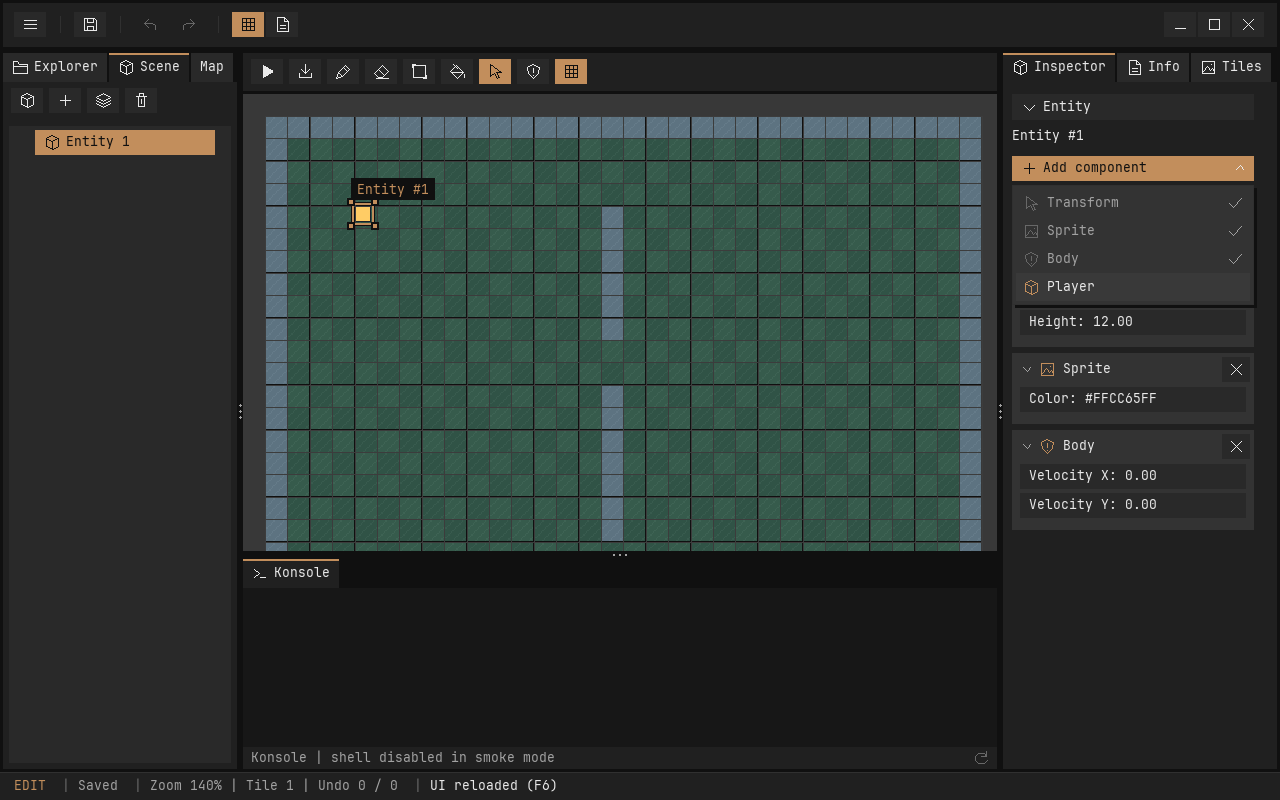
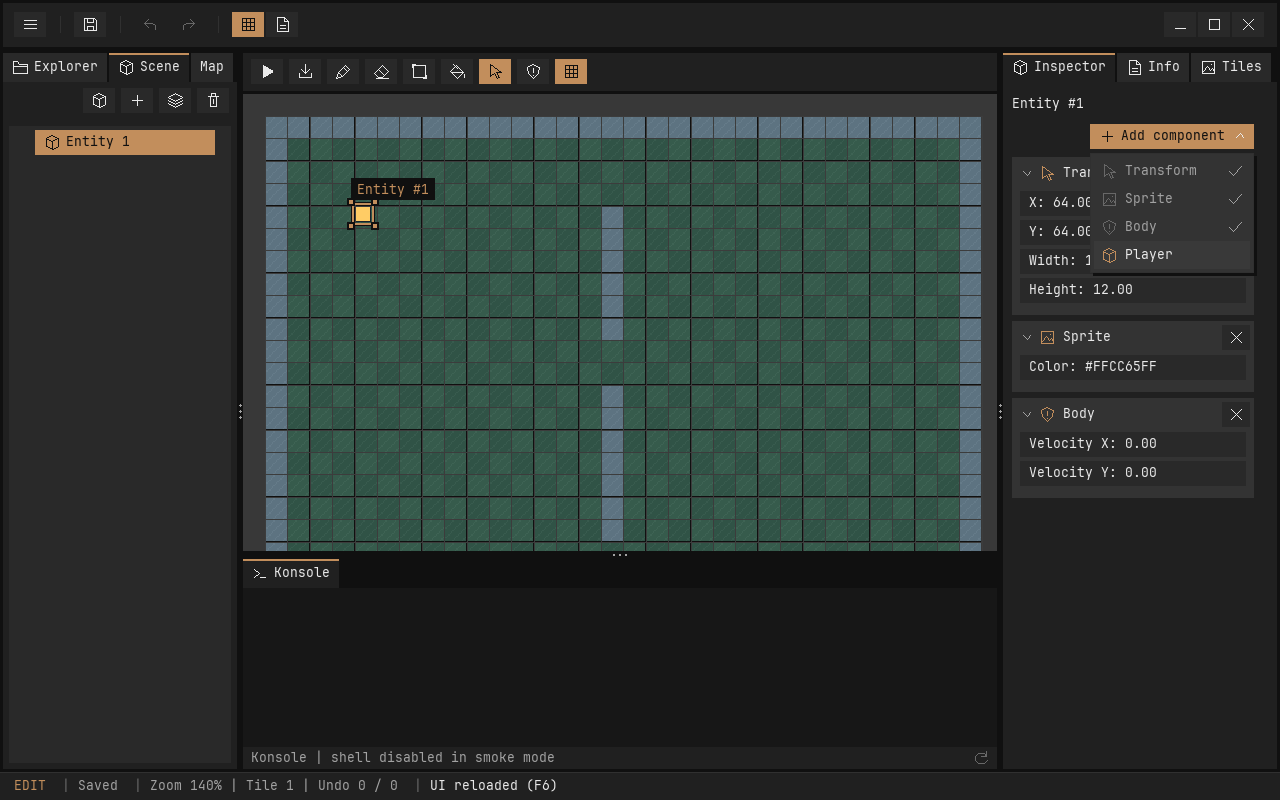
Align panel actions right and simplify entity inspector

Changed region(s): [[0.7812, 0.125, 1.0, 0.6562], [0.875, 0.625, 0.9062, 0.6562]]

diff --git a/tests/editor_smoke.c b/tests/editor_smoke.c
@@ -227,7 +227,7 @@ bool editor_verify_ui_layout(void) {
     ok = ok && !memcmp(&original, &app.map->scene, sizeof original);
     app.left_width = 240;
     app.right_width = 280;
-    app.layers_open = app.entity_open = app.palette_open = true;
+    app.layers_open = app.palette_open = true;
     app.tree_view.offset = app.inspector_view.offset = 0;
     UiTab tabs[UI_MAX_TABS];
     for (int i = 0; i < editor_view_count; i++) {
@@ -614,21 +614,22 @@ bool editor_verify_scene_graph(void) {
     editor_draw();
     bool ok = !editor_yaml_action_enabled("scene.add_child");
     float tools_y = TOP + TABS + 18.f;
-    smoke_click(PANEL_GAP + 24, tools_y);
+    float tools_x = LEFT - PANEL_GAP - 8 - (4 * 32 + 3 * 6);
+    smoke_click(tools_x + 16, tools_y);
     uint32_t root = app.selected;
     ok = ok && root != 0 && app.map->history.count == 1;
-    smoke_click(PANEL_GAP + 100, tools_y);
+    smoke_click(tools_x + 92, tools_y);
     uint32_t child = app.selected;
     PeObject *o = pe_entity_get(&app.map->scene, pe_entity_find(&app.map->scene, child));
     ok = ok && o && o->parent_id == root;
-    smoke_click(PANEL_GAP + 62, tools_y);
+    smoke_click(tools_x + 54, tools_y);
     uint32_t sibling = app.selected;
     o = pe_entity_get(&app.map->scene, pe_entity_find(&app.map->scene, sibling));
     ok = ok && o && o->parent_id == root;
     float first_y = TOP + TABS + 48.f;
     smoke_click(80, first_y + 36);
     ok = ok && app.selected == child;
-    smoke_click(PANEL_GAP + 100, tools_y);
+    smoke_click(tools_x + 92, tools_y);
     uint32_t leaf = app.selected;
     o = pe_entity_get(&app.map->scene, pe_entity_find(&app.map->scene, leaf));
     ok = ok && o && o->parent_id == child;
@@ -659,7 +660,7 @@ bool editor_verify_scene_graph(void) {
          pe_entity_world_position(&app.map->scene, pe_entity_find(&app.map->scene, leaf), &x, &y);
     ok = ok && fabsf(x - before_x) < .01f;
     editor_undo_active(true);
-    smoke_click(PANEL_GAP + 138, tools_y);
+    smoke_click(tools_x + 130, tools_y);
     ok = ok && !pe_entity_valid(&app.map->scene, pe_entity_find(&app.map->scene, leaf));
     editor_undo_active(false);
     ok = ok && pe_entity_valid(&app.map->scene, pe_entity_find(&app.map->scene, leaf));
@@ -704,7 +705,7 @@ bool editor_verify_components(void) {
     editor_inspect_entity();
     editor_draw();
     float x = app.width - RIGHT + PANEL_GAP + 9;
-    float top = TOP + TABS + 74.f + 22;
+    float top = TOP + TABS + 42.f + 22;
     float remove_x = x + (RIGHT - 2 * PANEL_GAP - 32) - 18;
     float content_before = app.inspector_view.content;
     smoke_click(x + 90, top + 12);
@@ -802,7 +803,7 @@ bool editor_verify_components(void) {
     memset(app.map->component_closed, 0, sizeof app.map->component_closed);
     app.map->component_add_open = false;
     app.selected = 0;
-    app.layers_open = app.entity_open = app.palette_open = true;
+    app.layers_open = app.palette_open = true;
     app.inspector_view.offset = 0;
     editor_selection_sync();
     if (!ok) {
@@ -835,10 +836,15 @@ bool editor_verify_map_panels(void) {
     float right_x = app.width - RIGHT + PANEL_GAP + 9;
     float first = TOP + TABS + 72.f;
     int before = app.map->scene.layer_count;
-    smoke_click(x + 40, first + before * 30 + 12);
+    float half = (w - 8) / 2;
+    float add_width = fminf(half, ui_tab_content_width(ICON_PLUS, "Add"));
+    float delete_width = fminf(half, ui_tab_content_width(ICON_DELETE, "Delete"));
+    float rename_width = fminf(half, ui_tab_content_width(ICON_EDIT, "Rename"));
+    float arrow_width = fminf(32, (w - rename_width - 16) / 2);
+    smoke_click(x + w - delete_width - 8 - add_width / 2, first + before * 30 + 12);
     ok = ok && app.map->scene.layer_count == before + 1;
     float actions = first + app.map->scene.layer_count * 30;
-    smoke_click(x + 40, actions + 32 + 12);
+    smoke_click(x + w - 16 - 2 * arrow_width - rename_width / 2, actions + 32 + 12);
     ok = ok && app.field == FIELD_LAYER;
     strcpy(app.input, "Decoration");
     editor_field_apply();
@@ -852,20 +858,19 @@ bool editor_verify_map_panels(void) {
     editor_undo_active(false);
     ok = ok && app.map->scene.layers[app.layer].visible;
     editor_draw();
-    float half = (w - 8) / 2;
-    smoke_click(x + half + 8 + (half - 8) / 4, actions + 44);
+    smoke_click(x + w - 8 - 1.5f * arrow_width, actions + 44);
     ok = ok && app.layer == before - 1 &&
          !strcmp(app.map->scene.layers[app.layer].name, "Decoration");
     editor_undo_active(false);
     app.layer = before;
     editor_draw();
-    smoke_click(x + half + 8 + half / 2, actions + 12);
+    smoke_click(x + w - delete_width / 2, actions + 12);
     ok = ok && app.map->scene.layer_count == before;
     editor_undo_active(false);
     app.layer = before;
     editor_draw();
     /* Import and source size belong to Tiles, independently of the selected entity. */
-    smoke_click(right_x + 70, TOP + TABS + 82);
+    smoke_click(app.width - PANEL_GAP - 48, TOP + TABS + 82);
     ok = ok && app.field == FIELD_IMPORT;
     editor_field_stop();
     editor_draw();

diff --git a/src/editor/editors/map/map_panel.c b/src/editor/editors/map/map_panel.c
@@ -5,6 +5,12 @@ void editor_draw_map_panel(void) {
     char label[128];
     bool enabled = !app.playing && !editor_edit_pending();
     float w = app.panel_area.w - 32, half = (w - 8) / 2;
+    float add_width = fminf(half, ui_tab_content_width(ICON_PLUS, "Add"));
+    float delete_width = fminf(half, ui_tab_content_width(ICON_DELETE, "Delete"));
+    float rename_width = fminf(half, ui_tab_content_width(ICON_EDIT, "Rename"));
+    float arrow_width = fminf(32, (w - rename_width - 16) / 2);
+    float actions_x = x + w - add_width - 8 - delete_width;
+    float order_x = x + w - rename_width - 16 - 2 * arrow_width;
     UiRect panel = {app.panel_area.x + 5, app.panel_top + 8, app.panel_area.w - 18,
                     fmaxf(0, app.panel_area.h - 16)};
     editor_box((SDL_FRect){panel.x, panel.y, panel.w, panel.h}, editor_widget_background());
@@ -35,7 +41,7 @@ void editor_draw_map_panel(void) {
             y += 30;
         }
         app.widget_scope = 0;
-        if (icon_button(x, y, half, ICON_PLUS, half >= 80 ? "Add" : "", "Add layer", false,
+        if (icon_button(actions_x, y, add_width, ICON_PLUS, "Add", "Add layer", false,
                         enabled && app.map->scene.layer_count < PE_LAYERS) &&
             editor_begin()) {
             app.layer = app.map->scene.layer_count++;
@@ -44,7 +50,8 @@ void editor_draw_map_panel(void) {
             app.map->scene.layers[app.layer].visible = true;
             editor_commit();
         }
-        if (icon_button(x + half + 8, y, half, ICON_DELETE, half >= 96 ? "Delete" : "",
+        if (icon_button(x + w - delete_width, y, delete_width, ICON_DELETE,
+                        delete_width >= ui_tab_content_width(ICON_DELETE, "Delete") ? "Delete" : "",
                         "Delete layer", false, enabled && app.map->scene.layer_count > 1) &&
             editor_begin()) {
             memmove(&app.map->scene.layers[app.layer], &app.map->scene.layers[app.layer + 1],
@@ -57,21 +64,21 @@ void editor_draw_map_panel(void) {
             editor_commit();
         }
         y += 32;
-        if (icon_button(x, y, half, ICON_EDIT, half >= 96 ? "Rename" : "", "Rename layer", false,
-                        enabled)) {
+        if (icon_button(order_x, y, rename_width, ICON_EDIT,
+                        rename_width >= ui_tab_content_width(ICON_EDIT, "Rename") ? "Rename" : "",
+                        "Rename layer", false, enabled)) {
             editor_field_start(FIELD_LAYER, app.map->scene.layers[app.layer].name);
         }
-        if (icon_button(x + half + 8, y, (half - 8) / 2, ICON_UP, "", "Move layer up", false,
-                        enabled && app.layer > 0) &&
+        if (icon_button(x + w - 2 * arrow_width - 8, y, arrow_width, ICON_UP, "", "Move layer up",
+                        false, enabled && app.layer > 0) &&
             editor_begin()) {
             PeLayer temp = app.map->scene.layers[app.layer];
             app.map->scene.layers[app.layer] = app.map->scene.layers[app.layer - 1];
             app.map->scene.layers[--app.layer] = temp;
             editor_commit();
         }
-        if (icon_button(x + half + 8 + (half + 8) / 2, y, (half - 8) / 2, ICON_DOWN, "",
-                        "Move layer down", false,
-                        enabled && app.layer + 1 < app.map->scene.layer_count) &&
+        if (icon_button(x + w - arrow_width, y, arrow_width, ICON_DOWN, "", "Move layer down",
+                        false, enabled && app.layer + 1 < app.map->scene.layer_count) &&
             editor_begin()) {
             PeLayer temp = app.map->scene.layers[app.layer];
             app.map->scene.layers[app.layer] = app.map->scene.layers[app.layer + 1];

diff --git a/src/editor/layout/renderer.c b/src/editor/layout/renderer.c
@@ -242,27 +242,44 @@ int editor_yaml_tool_rows(const cJSON *list, float width) {
 
 void editor_draw_yaml_toolbar(SDL_FRect area) {
     const cJSON *list = pe_ui_get(app.active_layout->root, "toolbar");
-    editor_draw_yaml_tool_list(list, area);
+    editor_draw_yaml_tool_list(list, area, false);
 }
 
-void editor_draw_yaml_tool_list(const cJSON *list, SDL_FRect area) {
-    float x = area.x + 8, y = area.y + 6;
-    for (const cJSON *n = list ? list->child : NULL; n; n = n->next) {
-        if (!editor_yaml_boolean(pe_ui_get(n, "visible"), true)) {
-            continue;
+void editor_draw_yaml_tool_list(const cJSON *list, SDL_FRect area, bool right_aligned) {
+    const cJSON *start = list ? list->child : NULL;
+    float available = fmaxf(32, area.w - 16), y = area.y + 6;
+    while (start) {
+        float used = 0;
+        const cJSON *end = start;
+        for (; end; end = end->next) {
+            if (!editor_yaml_boolean(pe_ui_get(end, "visible"), true)) {
+                continue;
+            }
+            float w = !strcmp(pe_ui_string(end, "type", ""), "separator")
+                          ? 16
+                          : fminf(yaml_button_width(end), available);
+            float next = used + (used > 0 ? 6 : 0) + w;
+            if (used > 0 && next > available) {
+                break;
+            }
+            used = next;
         }
-        bool separator = !strcmp(pe_ui_string(n, "type", ""), "separator");
-        float w = separator ? 16 : fminf(yaml_button_width(n), fmaxf(32, area.w - 16));
-        if (x + w > area.x + area.w - 8) {
-            x = area.x + 8;
-            y += 32;
+        float x = area.x + (right_aligned ? area.w - 8 - used : 8);
+        for (const cJSON *n = start; n != end; n = n->next) {
+            if (!editor_yaml_boolean(pe_ui_get(n, "visible"), true)) {
+                continue;
+            }
+            bool separator = !strcmp(pe_ui_string(n, "type", ""), "separator");
+            float w = separator ? 16 : fminf(yaml_button_width(n), available);
+            if (separator) {
+                editor_box((SDL_FRect){x + 7, y + 4, 1, 17}, UI_BORDER);
+            } else {
+                yaml_button(n, (SDL_FRect){x, y, w, 25});
+            }
+            x += w + 6;
         }
-        if (separator) {
-            editor_box((SDL_FRect){x + 7, y + 4, 1, 17}, UI_BORDER);
-        } else {
-            yaml_button(n, (SDL_FRect){x, y, w, 25});
-        }
-        x += w + 6;
+        start = end;
+        y += 32;
     }
 }
 
@@ -539,7 +556,7 @@ void editor_draw_yaml_node(const cJSON *n, SDL_FRect area, int column) {
         } else if (!strcmp(type, "entity_tree")) {
             const cJSON *tools = pe_ui_get(n, "tools");
             if (tools) {
-                editor_draw_yaml_tool_list(tools, area);
+                editor_draw_yaml_tool_list(tools, area, true);
                 float height = editor_yaml_tool_rows(tools, area.w) * 32.f + 6;
                 app.panel_area.y += height;
                 app.panel_area.h = fmaxf(0, app.panel_area.h - height);

diff --git a/src/editor/editors/map/panels.c b/src/editor/editors/map/panels.c
@@ -50,23 +50,19 @@ void editor_draw_inspector(void) {
     float y = app.panel_top + 18 - app.inspector_view.offset;
     ui_clip_push(&app.ui, panel);
     ui_apply_clip(app.renderer, &app.ui);
-    editor_disclosure(x, y, w, "Entity", &app.entity_open);
-    y += 32;
-    if (app.entity_open) {
-        PeObject *o = pe_entity_get(&app.map->scene, pe_entity_find(&app.map->scene, app.selected));
-        if (o) {
-            snprintf(label, sizeof label, "Entity #%u", o->stable_id);
-            editor_text(x, y, label, UI_TEXT);
-            y += 20;
-            if (!(o->mask & PE_TRANSFORM)) {
-                editor_text(x, y, "No Transform: no map position", UI_MUTED);
-                y += 22;
-            }
-            y = editor_draw_components(x, y + 4, w);
-        } else {
-            editor_text(x, y, "Select an entity in the view.", UI_MUTED);
-            y += 28;
+    PeObject *o = pe_entity_get(&app.map->scene, pe_entity_find(&app.map->scene, app.selected));
+    if (o) {
+        snprintf(label, sizeof label, "Entity #%u", o->stable_id);
+        editor_text(x, y, label, UI_TEXT);
+        y += 20;
+        if (!(o->mask & PE_TRANSFORM)) {
+            editor_text(x, y, "No Transform: no map position", UI_MUTED);
+            y += 22;
         }
+        y = editor_draw_components(x, y + 4, w);
+    } else {
+        editor_text(x, y, "Select an entity in the view.", UI_MUTED);
+        y += 28;
     }
     app.inspector_view.content = y + app.inspector_view.offset - app.panel_top + 8;
     app.inspector_view.viewport = (float)(app.panel_area.h - 16);

diff --git a/src/editor/workspace/lifecycle.c b/src/editor/workspace/lifecycle.c
@@ -41,8 +41,8 @@ static void snapshot_ui(UiSnapshot *s, bool load) {
         s->tool = app.tool;
         s->palette = app.palette_scroll;
         s->selected = app.selected;
-        s->flags = app.grid | (app.collision << 1) | (app.layers_open << 2) |
-                   (app.entity_open << 3) | (app.palette_open << 4);
+        s->flags =
+            app.grid | (app.collision << 1) | (app.layers_open << 2) | (app.palette_open << 4);
         UiTabs *tabs[] = {&app.left_tabs, &app.right_tabs};
         for (int k = 0; k < 2; k++) {
             s->counts[k] = tabs[k]->count;
@@ -75,7 +75,6 @@ static void snapshot_ui(UiSnapshot *s, bool load) {
         app.grid = (s->flags & 1) != 0;
         app.collision = (s->flags & 2) != 0;
         app.layers_open = (s->flags & 4) != 0;
-        app.entity_open = (s->flags & 8) != 0;
         app.palette_open = (s->flags & 16) != 0;
         UiTabs *tabs[] = {&app.left_tabs, &app.right_tabs};
         for (int k = 0; k < 2; k++) {
@@ -209,7 +208,7 @@ static void default_editor_ui(bool scripts) {
     snprintf(app.expanded[2], PE_PATH, "scripts");
     app.grid = true;
     app.collision = false;
-    app.layers_open = app.entity_open = app.palette_open = true;
+    app.layers_open = app.palette_open = true;
     app.tree_view = app.scene_view = app.inspector_view = app.info_view = app.map_view =
         app.tiles_view = (UiScroll){0};
     UiTab left[] = {{UI_EXPLORER_TAB, true, 0}, {UI_SCENE_TAB, true, 0}, {UI_MAP_TAB, true, 0}};

diff --git a/src/editor/editors/map/components.c b/src/editor/editors/map/components.c
@@ -11,7 +11,6 @@ static const struct {
 
 void editor_inspect_entity(void) {
     app.right_tabs.selected = UI_INSPECTOR_TAB;
-    app.entity_open = true;
     app.inspector_view.offset = 0;
     app.map->component_add_open = false;
     app.map->reveal_selected = true;
@@ -131,9 +130,11 @@ float editor_draw_components(float x, float y, float width) {
         app.map->component_add_open = false;
     }
     bool enabled = !app.playing && !editor_edit_pending();
-    app.map->component_anchor = (SDL_FRect){x, y, width, 25};
+    float button_width = fminf(width, ui_tab_content_width(ICON_PLUS, "Add component") + 20);
+    float button_x = x + width - button_width;
+    app.map->component_anchor = (SDL_FRect){button_x, y, button_width, 25};
     app.map->component_anchor_seen = true;
-    if (icon_button(x, y, width, ICON_PLUS, "Add component", "Choose a component",
+    if (icon_button(button_x, y, button_width, ICON_PLUS, "Add component", "Choose a component",
                     app.map->component_add_open, enabled)) {
         app.map->component_add_open = !app.map->component_add_open;
         app.map->component_owner = o->stable_id;

diff --git a/src/editor/layout/runtime.h b/src/editor/layout/runtime.h
@@ -35,8 +35,9 @@ void editor_draw_yaml_toolbar(SDL_FRect area);
  * @brief Zeichnet eine validierte YAML-Buttonliste in einem lokalen Werkzeugbereich.
  * @param list Geliehene Liste aus dem aktuellen Layout; NULL ist eine leere Liste.
  * @param area Bereich in Fensterpixeln; berücksichtigt den aktiven Clip.
+ * @param right_aligned Richtet jede umgebrochene Zeile rechts am Bereich aus.
  */
-void editor_draw_yaml_tool_list(const cJSON *list, SDL_FRect area);
+void editor_draw_yaml_tool_list(const cJSON *list, SDL_FRect area, bool right_aligned);
 /**
  * @brief Berechnet die Zeilenzahl einer lokalen YAML-Werkzeugliste.
  * @param list Geliehene Buttonliste; NULL ist eine leere Liste.

diff --git a/src/editor/editors/map/tiles_panel.c b/src/editor/editors/map/tiles_panel.c
@@ -17,8 +17,9 @@ void editor_draw_tiles_panel(void) {
     snprintf(label, sizeof label, "%.26s", app.map->scene.tileset);
     editor_text(x, y, label, UI_TEXT);
     y += 24;
-    if (icon_button(x, y, w, ICON_IMPORT, "Import PNG", "Import or replace tileset", false,
-                    enabled)) {
+    float import_width = fminf(w, ui_tab_content_width(ICON_IMPORT, "Import PNG"));
+    if (icon_button(x + w - import_width, y, import_width, ICON_IMPORT, "Import PNG",
+                    "Import or replace tileset", false, enabled)) {
         editor_field_start(FIELD_IMPORT, "");
     }
     y += 32;

diff --git a/src/editor/app/editor_internal.h b/src/editor/app/editor_internal.h
@@ -131,7 +131,6 @@ typedef struct {
     float left_width;            ///< Breite der linken Spalte in Pixeln.
     float right_width;           ///< Breite der rechten Spalte in Pixeln.
     bool layers_open;            ///< Aufklappzustand der Ebenenliste.
-    bool entity_open;            ///< Aufklappzustand der Entity-Eigenschaften.
     bool palette_open;           ///< Aufklappzustand der Tile-Palette.
     MapPayload *map;             ///< Besitzende Mapinstanz oder NULL bei entladenem Map-Editor.
     PeScriptEditor *script; ///< Besitzende Scriptinstanz oder NULL bei entladenem Script-Editor.

diff --git a/src/editor/app/main.c b/src/editor/app/main.c
@@ -82,7 +82,7 @@ int main(int argc, char **argv) {
     editor_apply_shell_layout();
     app.left_width = 240;
     app.right_width = 280;
-    app.layers_open = app.entity_open = app.palette_open = true;
+    app.layers_open = app.palette_open = true;
     editor_apply_shell_layout();
     UiTab left_tabs[] = {
         {UI_EXPLORER_TAB, true, 0}, {UI_SCENE_TAB, true, 0}, {UI_MAP_TAB, true, 0}};

diff --git a/docs/UI_YAML.md b/docs/UI_YAML.md
@@ -300,7 +300,7 @@ Die Fensterlogik liegt in `src/editor/app/window.c`; die UI-Lib stellt die Icons
 
 ## Werkzeuge des Scene-Graphs
 
-Der spezialisierte Map-Knoten `entity_tree` rendert den aufklappbaren Entity-Baum. Seine optionale `tools`-Liste enthält bis zu vier Buttons. Sie werden oberhalb des Baums gezeichnet und bei langen Labels oder schmalen Panels umgebrochen. IDs müssen wie alle Widget-IDs eindeutig bleiben.
+Der spezialisierte Map-Knoten `entity_tree` rendert den aufklappbaren Entity-Baum. Seine optionale `tools`-Liste enthält bis zu vier Buttons. Sie werden oberhalb des Baums rechtsbündig gezeichnet und bei langen Labels oder schmalen Panels umgebrochen. Jede Zeile bleibt dabei rechtsbündig; die Toolbar des mittleren Editors bleibt linksbündig. IDs müssen wie alle Widget-IDs eindeutig bleiben.
 
 ```yaml
 content:
@@ -321,7 +321,7 @@ Wurzel-Erstellen benötigt keine Auswahl. Geschwister, Kind und Löschen benöti
 
 Der vorhandene spezialisierte Knoten `{type: inspector, id: inspector, binding: selection.active}` zeigt die Komponenten der ausgewählten Entity. Die Inhalte werden aus ihrer ECS-Maske und der C-Komponentenregistrierung erzeugt. Die YAML legt weiterhin fest, in welchem Panel der Inspector liegt; das konkrete Transform-/Sprite-/Body-/Player-Formular wird im Map-Modul gepflegt. Es gibt dafür noch keine beliebigen benutzerdefinierten Komponentenfelder aus YAML.
 
-Jede Komponenten-Karte ist einzeln klappbar, verwendet denselben aufgehellten Theme-Hintergrund wie der Dateibaum und hat einen Entfernen-Button. `Add component` öffnet ein überlagerndes Dropdown mit allen registrierten Komponenten; bereits vorhandene Einträge sind abgehakt und deaktiviert. Das Menü unterstützt Maus, Pfeiltasten, Enter und Escape. Entity-Erstellen und -Löschen liegen im Scene-Tab. Abhängigkeiten werden beim Hinzufügen gemeinsam ergänzt; Entfernen ist bei verletzten Abhängigkeiten deaktiviert und hat einen erklärenden Tooltip. Dokumentänderungen nutzen den Undo-Verlauf, die Klappzustände werden als Navigation im Map-Checkpoint gesichert. Siehe [COMPONENTS.md](COMPONENTS.md).
+Der Inspector beginnt direkt mit der Entity-ID, ohne zusätzliche Entity-Überschrift oder äußeren Klappbereich. Der Button `Add component` ist in Inhaltsbreite rechtsbündig. Jede Komponenten-Karte ist einzeln klappbar, verwendet denselben aufgehellten Theme-Hintergrund wie der Dateibaum und hat einen Entfernen-Button. `Add component` öffnet ein überlagerndes Dropdown mit allen registrierten Komponenten; bereits vorhandene Einträge sind abgehakt und deaktiviert. Das Menü unterstützt Maus, Pfeiltasten, Enter und Escape. Entity-Erstellen und -Löschen liegen im Scene-Tab. Abhängigkeiten werden beim Hinzufügen gemeinsam ergänzt; Entfernen ist bei verletzten Abhängigkeiten deaktiviert und hat einen erklärenden Tooltip. Dokumentänderungen nutzen den Undo-Verlauf, die Klappzustände werden als Navigation im Map-Checkpoint gesichert. Siehe [COMPONENTS.md](COMPONENTS.md).
 
 
 ## Getrennte Map-, Tiles- und Entity-Panels

diff --git a/docs/COMPONENTS.md b/docs/COMPONENTS.md
@@ -1,12 +1,12 @@
 # Komponenten im Inspector
 
-Eine ausgewählte Entity zeigt im Inspector jede vorhandene Komponente in einer eigenen klappbaren Karte. Die Karten verwenden denselben Hintergrund wie die Tree-Fläche: die Theme-Surface mit 5 Prozent Weiß, im aktuellen Theme `#333333`. Zwischen den Karten liegen 6 Pixel Abstand.
+Der Inspector beginnt mit der ID der ausgewählten Entity; eine zusätzliche klappbare Entity-Überschrift entfällt. Jede vorhandene Komponente steht in einer eigenen klappbaren Karte. Die Karten verwenden denselben Hintergrund wie die Tree-Fläche: die Theme-Surface mit 5 Prozent Weiß, im aktuellen Theme `#333333`. Zwischen den Karten liegen 6 Pixel Abstand.
 
 ![Komponenten im Inspector](images/components.png)
 
 ## Hinzufügen und Entfernen
 
-**Add component** öffnet ein Dropdown mit allen Komponententypen. Vorhandene Komponenten sind abgehakt und deaktiviert. Die Auswahl funktioniert per Maus oder Pfeiltasten und Enter; Escape oder ein Klick außerhalb schließen das Menü. Der Klick außerhalb wird abgefangen, ohne darunterliegende Elemente zu betätigen. Das Menü liegt über den Karten und verschiebt sie nicht. Eine Komponente kann nur einmal pro Entity vorhanden sein. Neue Komponenten erhalten Standardwerte; notwendige Abhängigkeiten werden in demselben Undo-Schritt ergänzt. Bestehende Komponenten und ihre Werte bleiben dabei unverändert.
+Der Button **Add component** sitzt rechtsbündig und öffnet ein Dropdown mit allen Komponententypen. Vorhandene Komponenten sind abgehakt und deaktiviert. Die Auswahl funktioniert per Maus oder Pfeiltasten und Enter; Escape oder ein Klick außerhalb schließen das Menü. Der Klick außerhalb wird abgefangen, ohne darunterliegende Elemente zu betätigen. Das Menü liegt über den Karten und verschiebt sie nicht. Eine Komponente kann nur einmal pro Entity vorhanden sein. Neue Komponenten erhalten Standardwerte; notwendige Abhängigkeiten werden in demselben Undo-Schritt ergänzt. Bestehende Komponenten und ihre Werte bleiben dabei unverändert.
 
 Das **X** rechts in der Kartenüberschrift entfernt die Komponente. Die Entity selbst und andere Komponenten bleiben erhalten. Nach Entfernen und erneutem Hinzufügen erhält die Komponente wieder Standardwerte. Undo stellt dagegen die entfernte Komponente mit ihren vorherigen Werten wieder her.
 
